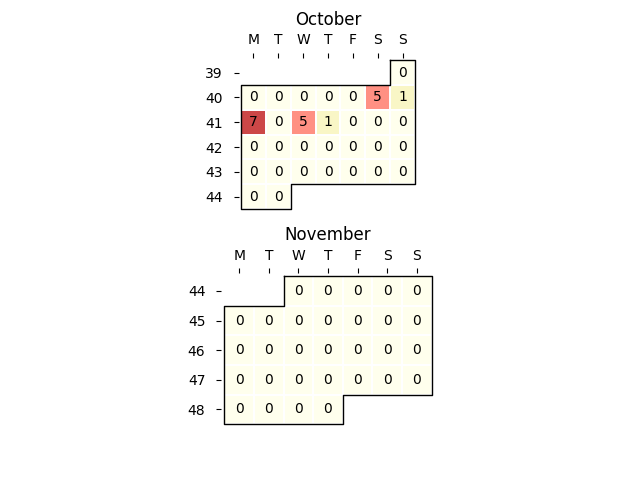
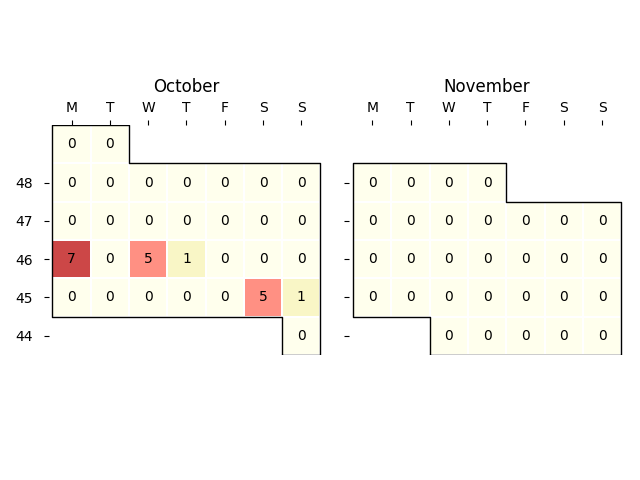
Update heatmap

diff --git a/make_readme.py b/make_readme.py
@@ -72,18 +72,19 @@ import matplotlib.pyplot as plt
 from pylab import *
 months.append(11)
 
-subplots_adjust(hspace=0.400)
-# subplots_adjust(wspace=1.000)
+# subplots_adjust(hspace=0.400)
+# subplots_adjust(wspace=1.900)
 number_of_subplots=len(months)
 
-for i,v in enumerate(range(number_of_subplots)):
-    v = v+1
-    print(i, v)
-    print(months[i])
-    ax1 = subplot(number_of_subplots,1, v)
-    july.month_plot(dates_list, data, month=months[i], value_label=True, ax=ax1)
+from mpl_toolkits.axes_grid1 import Grid
+fig = plt.figure()
+grid = Grid(fig, rect=111, nrows_ncols=(1,2),
+            axes_pad=0.25, label_mode='L',
+            )
+for i, ax in enumerate(grid):
+    july.month_plot(dates_list, data, month=months[i], value_label=True, ax=ax)
 
-# july.month_plot(dates_list, data, month=10, value_label=True, ax=0)
-# july.month_plot(dates_list, data, month=11, value_label=True, ax=0)
-# july.calendar_plot(dates_list, data)
+
+plt.tight_layout()
+
 plt.savefig("heatmap.png")
